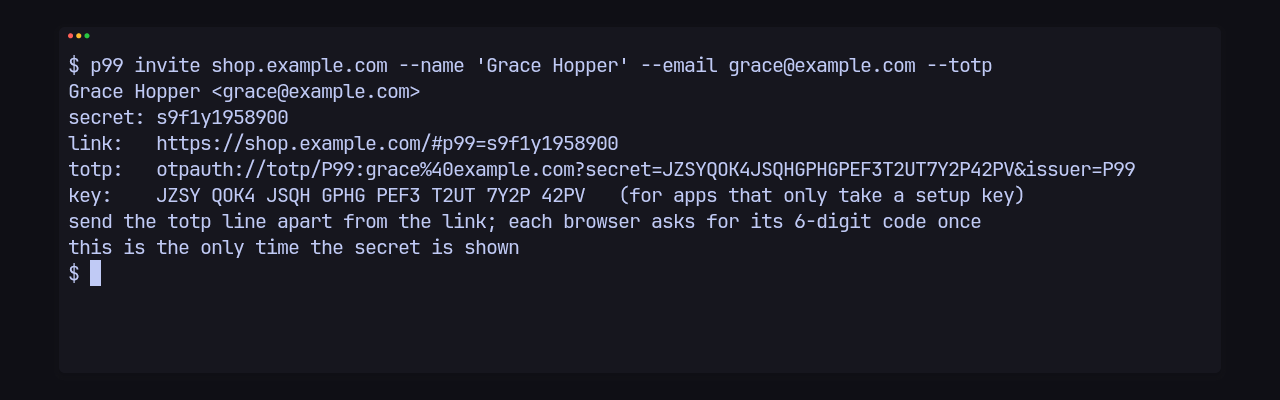
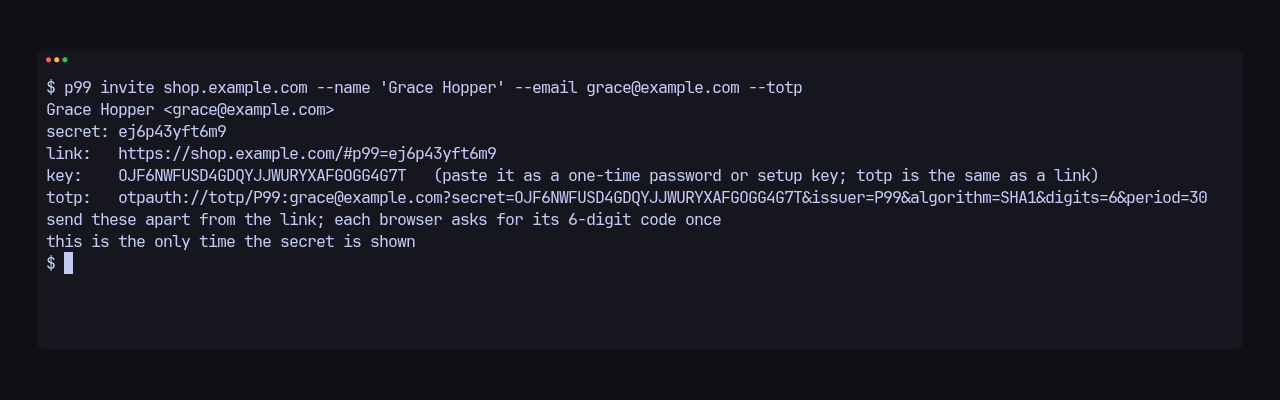
The authenticator setup leads with the key to paste, and its otpauth link spells out SHA-1, 6 digits and 30 seconds; the README's loader size is the 2,044 bytes it serves since the TOTP change

Changed region(s): [[0.0312, 0.21, 0.9375, 0.51], [0.0312, 0.54, 0.7812, 0.72], [0.0312, 0.12, 0.7812, 0.18]]

diff --git a/src/cli.rs b/src/cli.rs
@@ -833,26 +833,17 @@ fn invite(config: &Config, global: &Global, args: &InviteArgs) -> Result<(), Str
 
 fn otpauth(email: &str, key: &str) -> String {
     format!(
-        "otpauth://totp/P99:{}?secret={key}&issuer=P99",
-        crate::client::encode(email)
+        "otpauth://totp/P99:{}?secret={key}&issuer=P99&algorithm=SHA1&digits=6&period=30",
+        crate::client::encode(email).replace("%40", "@")
     )
 }
 
-fn grouped(key: &str) -> String {
-    key.as_bytes()
-        .chunks(4)
-        .map(|c| String::from_utf8_lossy(c).into_owned())
-        .collect::<Vec<_>>()
-        .join(" ")
-}
-
 fn print_totp(code: &Code, key: &str) {
-    out!("totp:   {}", otpauth(&code.email, key));
     out!(
-        "key:    {}   (for apps that only take a setup key)",
-        grouped(key)
+        "key:    {key}   (paste it as a one-time password or setup key; totp is the same as a link)"
     );
-    println!("send the totp line apart from the link; each browser asks for its 6-digit code once");
+    out!("totp:   {}", otpauth(&code.email, key));
+    println!("send these apart from the link; each browser asks for its 6-digit code once");
 }
 
 fn totp(config: &Config, global: &Global, id: i64) -> Result<(), String> {

diff --git a/README.md b/README.md
@@ -14,7 +14,7 @@ Works on Linux and macOS (Windows through WSL). The widget runs in any modern br
 
 | | |
 | --- | --- |
-| What every page downloads | **2,030 bytes** gzipped: the loader as served, nothing else |
+| What every page downloads | **2,044 bytes** gzipped: the loader as served, nothing else |
 | Loader start to the "+" painted | **10.6 ms** cold, **2.6 ms** warm |
 | Page navigation to the "+" painted | **26.9 ms** cold, **10.1 ms** warm |
 | Click to the panel's form on screen | **31.1 ms** cold: panel and styles load only then (27.8 KB gzipped) |
@@ -97,9 +97,9 @@ Each Cloudflare account holds one Worker, one D1 database and one R2 bucket, and
 
 Invites are personal codes rather than accounts. `p99 invite example.com --name "Ada Lovelace" --email ada@example.com` mints a 12-character code and a link, `https://example.com/#p99=<code>`. The code travels in the link's fragment, which browsers never send to a server, so it stays out of every log. Codes are revocable and rate-limited. Code holders see their own items; managers see everything.
 
-**A second factor, when you want one.** `p99 invite … --totp` adds an authenticator to the code, and `p99 invites totp <id>` adds one to a code someone already holds, keeping their link. P99 prints the setup once, as an `otpauth://` link that 1Password, Bitwarden or Apple Passwords take as a pasted one-time-password field, and as a setup key for Google Authenticator or Authy. Send it apart from the link. The first time a browser uses the code, the panel asks for the 6-digit code; after that the browser is remembered, and a forwarded link alone opens nothing anywhere else. The Worker keeps the secret encrypted, refuses a code already used, and locks the authenticator after 10 wrong tries. Nothing changes on the site: the prompt lives in the panel.
+**A second factor, when you want one.** `p99 invite … --totp` adds an authenticator to the code, and `p99 invites totp <id>` adds one to a code someone already holds, keeping their link. P99 prints the setup once: a key to paste as the one-time password in 1Password, Bitwarden or Apple Passwords, or as the setup key in Google Authenticator or Authy, and the same secret as an `otpauth://` link for apps that take one. Send it apart from the link. The first time a browser uses the code, the panel asks for the 6-digit code; after that the browser is remembered, and a forwarded link alone opens nothing anywhere else. The Worker keeps the secret encrypted, refuses a code already used, and locks the authenticator after 10 wrong tries. Nothing changes on the site: the prompt lives in the panel.
 
-<p align="center"><img src="docs/images/invite-totp.png" width="80%" alt="A terminal running p99 invite shop.example.com --name 'Grace Hopper' --email grace@example.com --totp on a local Worker: it prints the code, the link, an otpauth:// line and the same setup key in groups of four, a note to send the TOTP line apart from the link, and that the secret is shown only this once."></p>
+<p align="center"><img src="docs/images/invite-totp.png" width="80%" alt="A terminal running p99 invite shop.example.com --name 'Grace Hopper' --email grace@example.com --totp on a local Worker: it prints the code, the link, the setup key, the same secret as an otpauth:// line, a note to send them apart from the link, and that the secret is shown only this once."></p>
 
 <p align="center"><img src="docs/images/verify-light.png" width="49%" alt="A sample shop's checkout page with the P99 panel open on Confirm it's you: a short note to enter the 6-digit code the authenticator app shows for P99, a Code field, and Cancel and Confirm buttons."> <img src="docs/images/verify-dark.png" width="49%" alt="The same prompt on the dark page."></p>
 

diff --git a/docs/guides/invite.md b/docs/guides/invite.md
@@ -76,11 +76,11 @@ p99 invites totp 3
 ```
 
 ```text
-totp:   otpauth://totp/P99:grace%40example.com?secret=JZSYQOK4JSQHGPHGPEF3T2UT7Y2P42PV&issuer=P99
-key:    JZSY QOK4 JSQH GPHG PEF3 T2UT 7Y2P 42PV   (for apps that only take a setup key)
+key:    <32 base32 characters>   (paste it as a one-time password or setup key; totp is the same as a link)
+totp:   otpauth://totp/P99:grace@example.com?secret=<32 base32 characters>&issuer=P99&algorithm=SHA1&digits=6&period=30
 ```
 
-Both lines carry the same secret, shown this once. In 1Password, add a One-Time Password field to an item and paste the `otpauth://` line; Bitwarden and Apple Passwords take it the same way. Google Authenticator and Authy take the key under "enter a setup key". Send it apart from the link, so one forwarded message never carries both.
+Both lines carry the same secret, shown this once. Paste the key: in 1Password as an item's One-Time Password field, in Bitwarden or Apple Passwords as the authenticator key, in Google Authenticator or Authy under "enter a setup key". The `otpauth://` line is for apps that take a setup link; if an app shows codes P99 refuses, set it up from the key instead. Send both apart from the link, so one forwarded message never carries both.
 
 The first time a browser opens the panel with that code, it asks for the 6-digit code; after that the browser is remembered. Another browser, or one whose site data was cleared, asks again. After 10 wrong codes the authenticator locks; `p99 invites totp <id>` sets a new one, which also makes every browser of that code ask again, so it is the way to recover a lost phone too. `p99 invites` marks such codes `totp`.
 
